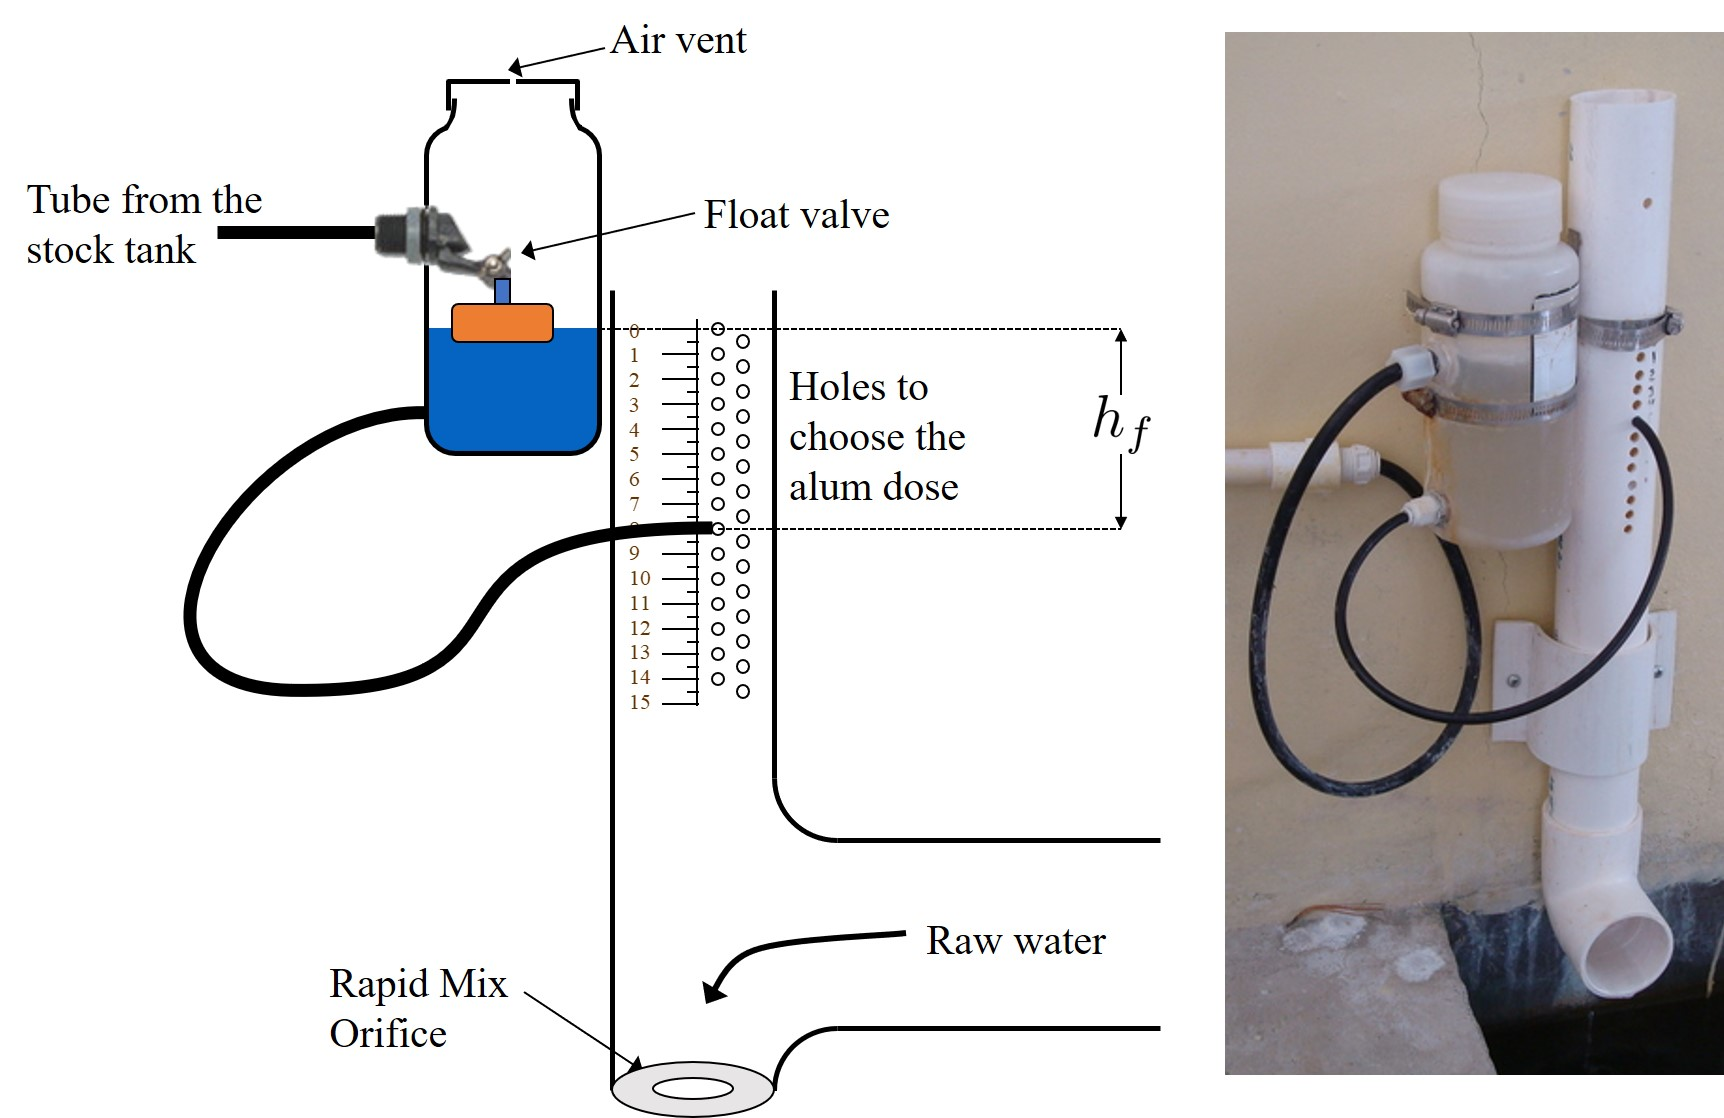
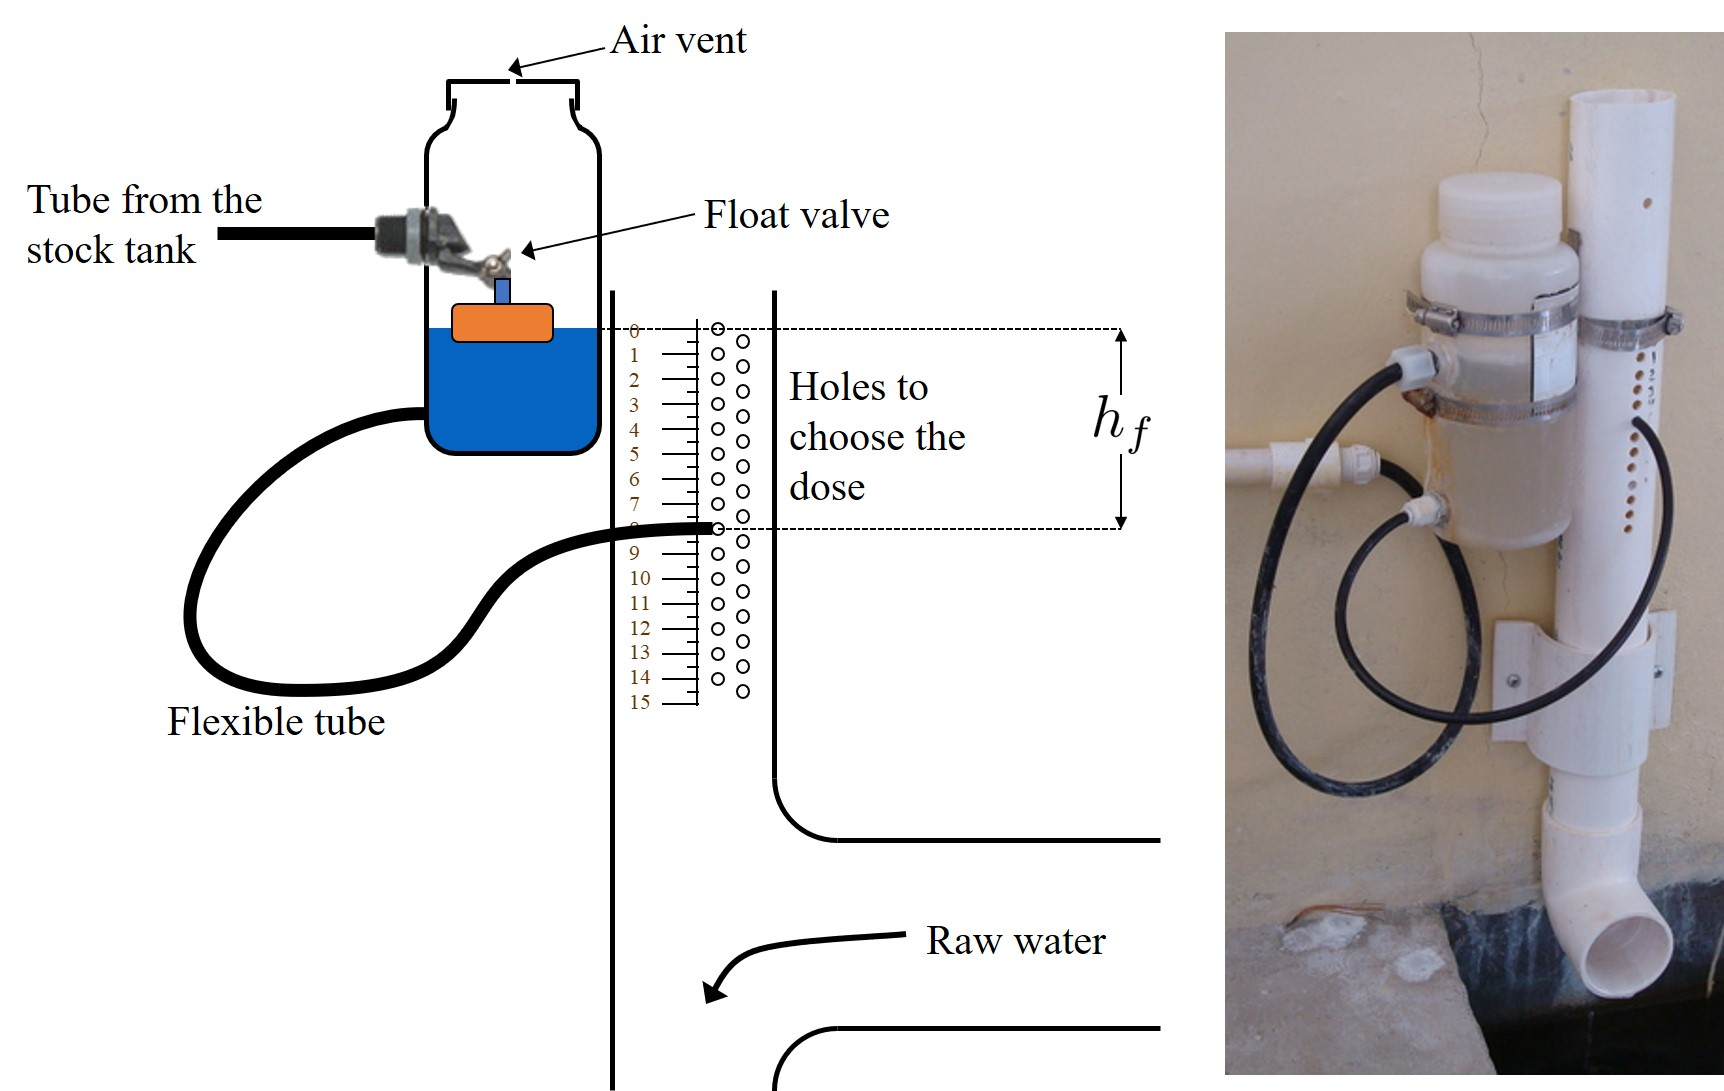
seventh progress report

diff --git a/Summary Sheets/Flow_Control_and_Measurement.md b/Summary Sheets/Flow_Control_and_Measurement.md
@@ -339,11 +339,13 @@ $$Q = \Pi_{vc} A_{or} \sqrt{2g\Delta h}$$
 
 ## Section 2: Introduction to Flow Control: The Search for Constant Head   
 
-**Constant head** implies constant flow. It is as if the orifice equation applied to a hole in the bottom of a bucket, but somehow $\Delta h$ never changes, the water level in the bucket is always the same. Hence, the flow is always the same too.
+The term **constant head** means that flowing water flows with the same energy over time, the flow rate does not change. Constant head implies constant flow. It is as if the orifice equation applied to a hole in the bottom of a bucket, but somehow $\Delta h$ never changes, the water level in the bucket is always the same even though water is flowing out of it. Since the water level is always the same, the flow is always the same too. The challenge is getting the water level to always stay the same, or to create a system that doesn't just use buckets and holes to maintain constant head.
 
-While constant head can now be achieved with pumps and computers, this was not always the case. Getting constant head has been a challenge to engineers for a long time. This problem becomes even harder when considering that we need constant head for dosing purposes. For example, the chlorine concentration in treated water must always be the same, even if the plant flow rate changes over thr course of a day. So the challenge of constant head is not _just_ providing one continuous flow rate, it is also varying that flow rate (chlorine solution) in proportion to another flow rate (flow through a plant).  
+While constant head can now be achieved with pump/computers systems, this was not always the case. Getting constant head has been a challenge to engineers for a long time. This problem becomes even harder when considering that we need constant head for dosing purposes. For example, the chlorine concentration in treated water must always be the same for a particular plant, even if the plant flow rate changes over the course of a day. If the same flow of chlorine is dosed as the flow rate of a plant changes, then the concentration of chlorine in the treated water will not be what it should be. The ideal dosing system accounts for the change of plant flow rate.  
 
-This section introduces the problem of creating constant head  without electricity and presents some historical solutions.
+So the challenge of constant head in chemical dosing is not _just_ providing one continuous flow of chlorine, it is also varying that flow in proportion to the plant flow rate.  
+
+This section presents some historical solutions to creating constant head.
 
 ### Important Terms
 
@@ -352,12 +354,12 @@ This section introduces the problem of creating constant head  without electrici
 3.
 
 ### Important Equations
-1. s
-2.
+1. Tank-with-a-valve / Hole-in-a-bucket equation
+2. Tank Drain equation
 
 ## 2.1) Tank with a Valve  
 ### Flow $Q$ and Water Level $h$ as a Function of Time  
-As evidenced by the orifice equation, a tank of water with a hole poked in the bottom or side does not provide constant flow over time. Why not? In the orifice equation, $Q = \Pi_{vc} A_{or} \sqrt{2g \Delta h}$, flow $Q$ is a function of the height of water above the orifice, $\Delta h$. Since the water drains from the hole over time, the height of water above the orifice necessarily changes. The first approach in the search for a constant flow rate is understanding and manipulating the 'tank-with-a-valve' system, as tightening or loosening a valve is one of the most simple ways of controlling the flow of water.
+As evidenced by the orifice equation, a bucket or tank of water with a hole poked in the bottom or side does not provide constant flow over time. Why not? In the orifice equation, $Q = \Pi_{vc} A_{or} \sqrt{2g \Delta h}$, flow $Q$ is a function of the height of water above the orifice, $\Delta h$. Since the water drains from the hole over time, the height of water above the orifice necessarily changes. The first approach in the search for a constant flow rate is understanding and manipulating the 'tank-with-a-valve' system, as tightening or loosening a valve is one of the most simple ways of controlling the flow of water.
 
 The system we are using to gain an understanding of this 'tank-with-a-valve' scenario is shown below. In the image, a hypochlorite solution is slowly dripping and mixing with piped source water, thereby disinfecting it. The valve is almost closed to make sure that the hypochlorite solution drips instead of flows.
 
@@ -406,9 +408,13 @@ This plot shows the interesting relationship of both water depth and flow over t
 This plot is exactly what we want, $\frac{Q}{Q_0} \approx 1$. While the water depth declines as the tank empties, the flow rate remains roughly constant. Unfortunately, we had to elevate our tank about 50 times its height. So for a standard 1 meter tall tank, it would have to be elevated by 50 meters. This is not realistically feasible. Other solutions must be used for effective and elegant constant head management.
 
 ### Drain System for a Tank  
-While our efforts to understand the 'tank-with-a-valve' scenario did not lead to a great constant head/chemical dosing solution, we can use our understanding to properly design drain systems for flocculators and sedimentation tanks, since there exist systems that are literally 'tank-with-a-valve'. Our goal is to calculate how large to make the drain pipe for flocculators or sed tanks if we want them to drain in a certain amount of time, $t_{Drain}$. Note that $t_{Drain}$ is _not_ the same as $t_{Design}$ from the previous section. The derivation for the following equation is found [here](https://github.com/AguaClara/CEE4540_Master/blob/master/Summary%20Sheets/Derivation_drain_system_design.md), along with a more detailed description of how AguaClara handles draining these tanks.
+While our efforts to understand the 'tank-with-a-valve' scenario did not lead to a great constant head/chemical dosing solution, we can use our understanding to properly design drain systems for AguaClara reactors like flocculators and sedimentation tanks, since they basically tanks with valves. Our goal is to calculate how large to make the drain pipe for flocculators or sed tanks if we want them to drain in a certain amount of time, $t_{Drain}$. Note that $t_{Drain}$ is _not_ the same as $t_{Design}$ from the previous section. The derivation for the following equation is found [here](https://github.com/AguaClara/CEE4540_Master/blob/master/Summary%20Sheets/Derivation_drain_system_design.md), along with more details on AguaClara's pipe stub method for draining tanks. The derived Tank Drain equation is as follows:
 
 $$D_{Pipe} = \sqrt{ \frac{8 L_{Tank} W_{Tank}}{\pi t_{Drain}}} {\left( \frac{H_{Tank} \sum K_e }{2g} \right)^{\frac{1}{4}}}$$
+
+The equation can also be rearranged to solve for the time it would take to drain a tank given its dimensions and a certain drain pipe size:
+
+$$t_{Drain} =  \frac{8 L_{Tank} W_{Tank}}{\pi D_{Pipe}^2} {\left( \frac{H_{Tank} \sum K_e }{2g} \right)^{\frac{1}{2}}}$$
 
 Such that the variables are as they appear in the image below:  
 ![](https://github.com/AguaClara/CEE4540_Master/blob/master/Summary%20Sheets/Images/Pipe_stub_drainage_variables.jpg?raw=true)
@@ -455,11 +461,11 @@ Marriot bottles are simple yet exceedingly clever devices to ensure constant flo
 ![](https://github.com/AguaClara/CEE4540_Master/blob/master/Summary%20Sheets/Images/Marriot_bottle.jpg?raw=true)
 
 ### Float Valves  
-An very clever device, a float valve consists of a float attached to a lever which controls a valve. When there is a low water level, the valve is open. As the water rises, it pushes the float upwards. As the float moves upwards, the lever forces the valve to close, until the float reaches a certain level and the valve closes completely. This can be used to create tanks or bottles with unchanging water levels, even as water exits the tank or bottle. Float valves are a critical part to AguaClara's flow control system. Most toilets found in homes have float valves to ensure that water doesn't spill out of the toilet tank and onto the floor. [Here is a video](https://youtu.be/LzFIPUJghsQ?t=103 "This guy definitely didn't have a script") showing a toilet being flushed, and how the float valve controls the water level in the tank. While the video is good, the person in the video says incorrect things, so please mute while watching.
+A very clever device, a float valve consists of a float attached to a lever which controls a valve. When there is a low water level, the valve is open. As the water rises, it pushes the float upwards. As the float moves upwards, the lever forces the valve to close, until the float reaches its maximum level and the valve closes completely. Float valves can be used to create tanks or bottles with unchanging water levels, even as water exits the tank or bottle. Float valves are a critical part to AguaClara's flow control system. Most toilets found in homes have float valves to ensure that water doesn't spill out of the toilet tank and onto the floor. [Here is a video](https://www.youtube.com/watch?v=hAxAyoSMQhI "This is the best video ever") explaining how a conventional toilet works. Please note the role of the float valve, which is to make sure that the water stops entering the toilet's tank once the water level has reached a specific point.
 
 
 **Advantages:**  
-- Very flexible in its uses. Can easily be a component of a more complex system
+- Very flexible in its uses. Can easily be a component of a more complex system, like toilets
 - Can be very compact
 
 **Disadvantages:**
@@ -469,23 +475,34 @@ An very clever device, a float valve consists of a float attached to a lever whi
 
 
 ## Section 3: AguaClara Flow Control and Measurement Technologies
-Now that you have the necessary context, you finally get to begin learning about AguaClara's technology and innovations! Each technology or component for this section will have four subsections: **'What it is and does'**, **'How it does it'**, **'Why it is necessary'**, and **'Notes'**.
+Now that you have the necessary context, you finally get to begin learning about AguaClara's technologies and innovations! Each technology or component for this section will have four subsections:
+- **What it is and does**
+- **How it does it**
+- **Why it is necessary**
+- **Notes**
 
 Using all of the acquired knowledge and information above, AguaClara has designed different flow control and measurement technologies for different purposes and scenarios. Each of these has evolved over time as new and creative innovations have improved the original design.
 
-The AguaClara Flow Controller was created to provide a constant dose of chlorine and coagulant to plants while also easily allowing for a manual change in dose if the plant flow rate increased, decreased, or if the water turbidity changed.
-
-The Linear Flow Orifice Meter (LFOM) makes it very easy for an operator to measure how much water is flowing through the plant. It also, critically, forces the level or water in the plant's entrance tank to scale linearly with the amount of water flowing through the plant, hence the 'LF' in LFOM.
-
-Finally, the Linear Dose Controller (often called the 'CDC' for Chemical Dose Controller) brings both previous technologies together to create an elegant solution to consistent chemical dosing, even through varying plant flow rates. It also allows for an increase or decrease in dosing at any given time if the turbidity of the incoming water changes, although this must be done manually by the plant operator.  
+Before diving into the technologies, recall the purpose of the chemicals that we are seeking to constantly dose, and why it is important to keep a constant, specific dose. **Coagulant** like alum, PAC, and iron-based coagulants, and **chlorine**, usually in the form of hypochlorite.
+- Coagulant is used to turn small particles into bigger particles, allowing them to be captured more easily. Waters with high [**turbidity**](https://en.wikipedia.org/wiki/Turbidity "Turbidity wikipedia"), or a lot of particles like clay and bacteria, require more coagulant to treat effectively. Additionally, waters with a lot of [**organic matter**](https://en.wikipedia.org/wiki/Organic_matter "Organic matter wikipedia") require large amounts of coagulant to treat.
+- Chlorine is used to disinfect water that has already been fully treated. A proper and consistent chlorine dose is required, as too low of a dose creates a risk of reintroduction of pathogens in the distribution system and too high of a dose increases the risk of carcinogenic [disinfection byproduct](https://en.wikipedia.org/wiki/Disinfection_by-product "DBP wikipedia") formation.
 
 ### Important Terms
-1.
+1. Coagulant
+2. Chlorination
+3. Turbidity
 
 ### Important Equations
 1.
 
 ## 3.1) "Almost Linear" Flow Controller
 ### What it is and does
-**What it is**
-This device consists of a float valve to keep a bottle at a constant water level, a long, flexible tube beginning at the bottom of the bottle, and many precut, precisely located holes in a pipe, as the image below shows. The holes in the pipe hold the other end of the tube that starts at the bottle.
+**What it is**  
+This device consists of a float valve to keep a solution in a bottle at a constant water level, a flexible tube starting at the bottom of the bottle, and many precisely located holes in a pipe, as the image below shows. The holes in the pipe hold the other end of the tube that starts at the bottle.
+
+Chemical solution, either coagulant or chlorine, is stored in a stock tank somewhere above the bottle. A tube connects the stock tank to the float valve within the bottle.
+
+![](https://github.com/AguaClara/CEE4540_Master/blob/master/Summary%20Sheets/Images/Almost_linear_flow_controller.jpg?raw=true)
+
+**What it does**  
+This flow controller provides constant flow of a chemical solution. When the end of the flexible tube is placed in a hole, the elevation difference between the water lever in the bottle and the hole does not change, and a constant flow is provided. When the operator wants to change the flow of chemical as a result of a change in the plant's flow rate or an increase in turbidity,  

diff --git a/Summary Sheets/Derivation_drain_system_design.md b/Summary Sheets/Derivation_drain_system_design.md
@@ -2,15 +2,11 @@
 
 This document contains the derivation of $D_{Pipe}$, which is the pipe diameter necessary to install in a drain system to entirely drain a tank in time $t_{Drain}$.
 
-First, it is necessary to understand how AguaClara tank drains work and what they look like. Tanks like the flocculator have a hole in their bottoms which are made with [pipe couplings](https://www.mrpoolman.com.au/assets/thumbL/16057.jpg). During normal operation, these couplings have pipe stubs in them, and the pipe stubs are tall enough to go above the water level and not allow water to flow into the drain. When the pipe stub is removed, the water begins to flow out of the drain, as the image below indicates. The drain pipe consists of pipe and one elbow, shown in the image. This image is not to scale.  
-
-
-
-**Note:** The image below is an example of an AguaClara flocculator drain. A sedimentation tank uses a valve to drain instead of a pipe coupling and piece of pipe. This does not change the derivation at all, the only necessary adjustment is using $D_{Valve}$ instead of $D_{Pipe}$.
+First, it is necessary to understand how AguaClara tank drains work and what they look like. Many tanks, including the flocculator and entrance tank, have a hole in their bottoms which are fitted with [pipe couplings](https://www.mrpoolman.com.au/assets/thumbL/16057.jpg). During normal operation, these couplings have pipe stubs in them, and the pipe stubs are tall enough to go above the water level in the tank and not allow water to flow into the drain. When the pipe stub is removed, the water begins to flow out of the drain, as the image below indicates. The drain pipe consists of pipe and one elbow, shown in the image. This image is not to scale.
 
 ![](https://github.com/AguaClara/CEE4540_Master/blob/master/Summary%20Sheets/Images/Pipe_stub_drainage.jpg?raw=true)
 
-While AguaClara sedimentation tanks use valves instead of pipe to begin the process of draining, the actual drain piping system is essentially the same, pipe and an elbow.
+While AguaClara sedimentation tanks use valves instead of pipe to begin the process of draining, the actual drain piping system is the same, pipe and an elbow. The equation that will soon be derived applies to both pipe stub and valve drains.
 
 We will start the derivation from the following equation, which is found in an intermediate step from the [tank-with-a-valve derivation](https://github.com/AguaClara/CEE4540_Master/blob/master/Summary%20Sheets/Derivation_flow_through_tank_with_a_valve.md).
 
@@ -25,7 +21,7 @@ Now, with the knowledge that $A_{Pipe} = \frac{\pi D_{Pipe}^2}{4}$ and rearrangi
 $$ D_{Pipe} = \sqrt{ \frac{8 A_{Tank}}{\pi t_{Drain}} \sqrt{ \frac{h_0 \sum K_e}{2g} } }$$
 
 To get the equation in terms of easily measureable tank parameters, we substitute $L_{Tank} W_{Tank}$ for $A_{Tank}$. To maintain consistency in variable names, we substitute $H_{Tank}$ for $h_0$.   
-**Note:** By saying that $h_0 = H_{Tank}$, we are making the assumption that the pipe drain is at the same elevation as the bottom of the tank. The pipe drain is actually a little lower than the bottom of the tank, but that would only make the tank drain faster than $t_{Drain}$. Therefore, we are designing a slight safety factor when we say that $h_0 = H_{Tank}$
+**Note:** By saying that $h_0 = H_{Tank}$, we are making the assumption that the pipe drain is at the same elevation as the bottom of the tank. The pipe drain is actually a little lower than the bottom of the tank, but that would make the tank drain faster than $t_{Drain}$, which is good. Therefore, we are designing a slight safety factor when we say that $h_0 = H_{Tank}$.
 
 Finally, we arrive at the equation for drain pipe sizing:
 

diff --git a/Juan_logbook.md b/Juan_logbook.md
@@ -5,7 +5,7 @@ This file will contain weekly updates into my work. All changes will be pushed t
 ***
 ##List of Big Ideas and Big Concerns
 1. It is not ideal to have both a confluence and a GitHub page that contain course resources. This will confuse students very much, they will be unable to find or unwilling to look for the simple things, and they will pester the TAs.  
-**¡DONE! Ambitious idea: Move everything to GitHub ¡DONE!**  
+**Ambitious idea: Move everything to GitHub**  
 Confluence, in all its glory, is not well liked by students and has a tendency to get very messy. Despite the fact that it seems like the perfect tool, I've only every heard complaints from students, both in AguaClara and 4540. Documents and information are oftentimes difficult to find
     - Is it possible to make a good looking syllabus on GitHub? Will investigate. Shouldn't be too difficult with table functionality in markdown
 2.
@@ -142,13 +142,7 @@ This interim progress report is due to 2 factors. My family and I are going on v
 
 
 ***
-## Seventh Progress Report: 4/26/2018  
+## Seventh Progress Report: 4/??/2018  
 ### Done  
-1. Transfer from confluence to GitHub is more or less done (Thanks Monroe!). Anything else that was forgotten can be easily moved later on.
-2. New repo structure has been established. [CEE4540_Master](https://github.com/AguaClara/CEE4540_Master) for class material, [CEE4540_DC_2018](https://github.com/AguaClara/CEE4540_DC_2018) for Design Challenges, and a separate, private repository for solutions.
-3. Have advanced to the AguaClara tech section of Flow Control and Measurement summary sheet.
-
-### To Do
-1. Finish the Flow Control and Measurement cheat sheet and powerpoint by the end of next week.
-2. Re-evaluate the my work priorities, considering time. Perhaps I should prioritize creating derivation sheets to remove derivations from powerpoints, and then spruce up the powerpoints before returning to the summary sheets. The summary sheets take a very, very long time to do well :/
-I think that will greatly improve the chance that some things are completely done and what _is_ done is done very well by the beginning of the semester.
+1. Added icons into the syllabus on the CEE4540_DC wiki
+2. Should there be a separate repository for design challenges vs course material? I don't actually think so. It'll just make things more confusing for students. With the way that the wiki is organized, I don't think anything needs to actually change. Most incoming, non-AguaClara students are totally unfamiliar with GitHub, and having two separate repositories has a good chance of confusing them.

diff --git a/Summary Sheets/Derivation_flow_through_tank_with_a_valve.md b/Summary Sheets/Derivation_flow_through_tank_with_a_valve.md
@@ -1,6 +1,6 @@
 # Deriving $Q(t)$ for a Tank with a Valve
 
-This document contains the derivation of the flow through a tank-with-a-valve. Our reference will be a simple hypochlorinator, shown in the following image. In the image, a hypochlorite solution is slowly dripping and mixing with piped source water, thereby disinfecting it. The valve is almost closed to make sure that the hypochlorite solution drips instead of flows.
+This document contains the derivation of the flow through a tank-with-a-valve over time, $Q(t)$. Our reference will be a simple hypochlorinator, shown in the following image. In the image, a hypochlorite solution is slowly dripping and mixing with piped source water, thereby disinfecting it. The valve is almost closed to make sure that the hypochlorite solution drips instead of flows.
 
 ![I really don't think anyone can read this](https://github.com/AguaClara/CEE4540_Master/blob/master/Summary%20Sheets/Images/drip_hypochlorinator.jpg?raw=true)
 
